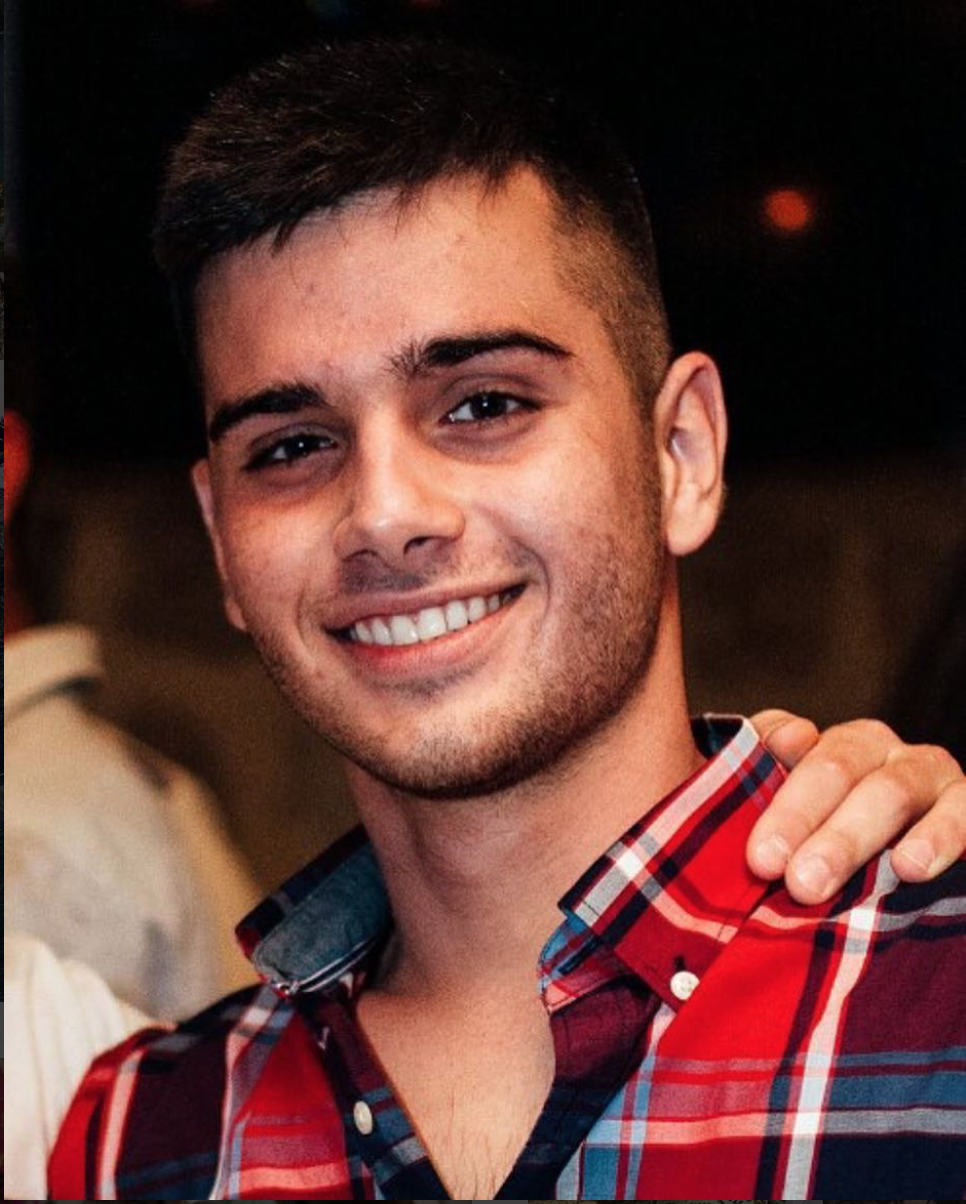
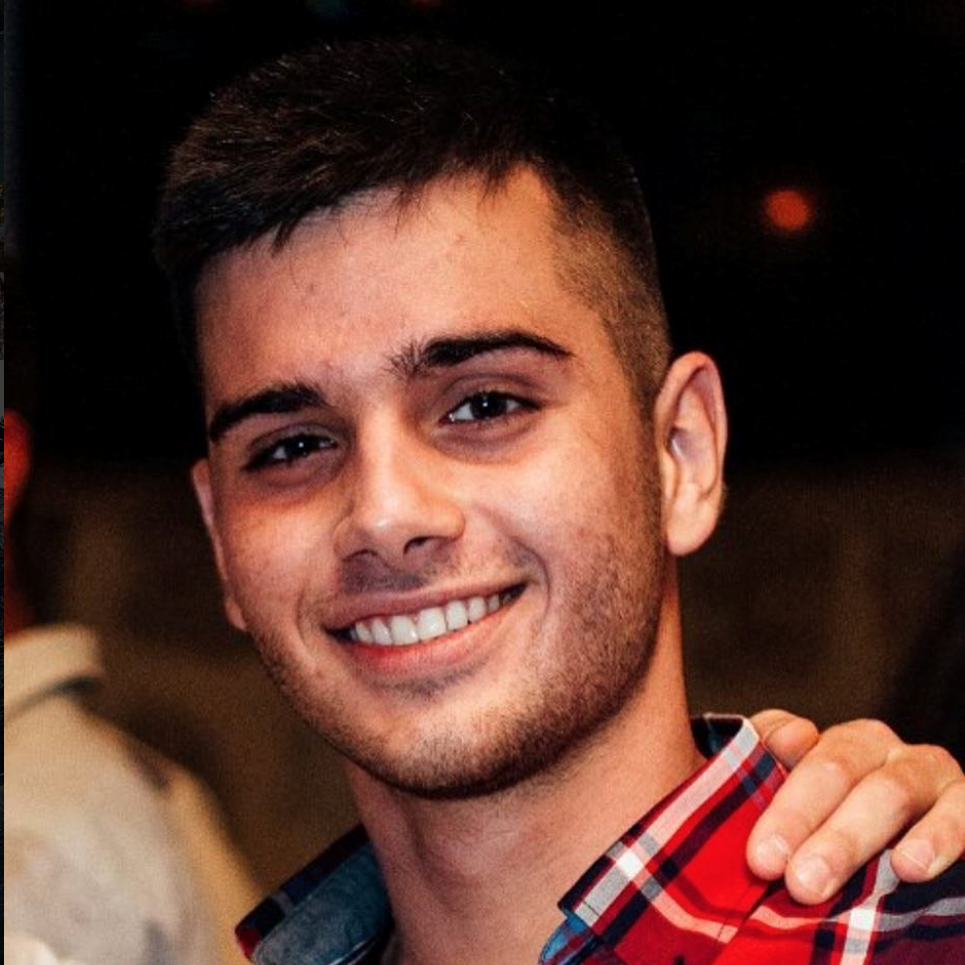
Izmene

diff --git a/radionica-vanillica.html b/radionica-vanillica.html
@@ -16,12 +16,6 @@
     <script src="https://maxcdn.bootstrapcdn.com/bootstrap/3.3.7/js/bootstrap.min.js" integrity="sha384-Tc5IQib027qvyjSMfHjOMaLkfuWVxZxUPnCJA7l2mCWNIpG9mGCD8wGNIcPD7Txa"
         crossorigin="anonymous">
 
-
-
-
-
-
-
         </script>
 
     <!-- CSS -->
@@ -87,11 +81,13 @@
             <div class="row">
                 <div class="col-md-12">
                     <p class="workshop-info-text">
-                        Vanilica je kurs koji obuhvata onaj najslađi deo JavaScripta - njegovu osnovu i početke. Zašto?
+                        Vanillica je kurs koji obuhvata onaj najslađi deo JavaScripta - njegovu osnovu i početke. Zašto?
                         Zašto Vanilla JavaScript-a? Zato što: “Morate znati azbuku da biste mogli da pišete”. Zašto
                         uopšte JavaScript? Neko je nekad rekao: “Svaki put kad napišem nešto u JS-u budem iznenađen
                         činjenicom da radi”. Šta? Šta treba da znam? Trebalo bi da poznajete osnove HTML-a i CSS-a ali
-                        ne brinite, i to ćemo preći na ovom kursu. Ali slobodno bacite pogled na OVO ili OVO u
+                        ne brinite, i to ćemo preći na ovom kursu. Ali slobodno bacite pogled na <a href=https://www.udemy.com/html-and-css-for-beginners-crash-course-learn-fast-easy/
+                            target="_blank" style="color:black"> <b><u>OVO</u></b></a> ili <a href=https://www.udemy.com/build-your-first-website-in-1-week/
+                            target="_blank" style="color:black"> <b><u>OVO</u></b></a> u
                         međuvremenu. Šta treba da imam? Možete nositi svoj laptop i tako uvek imati sve na jednom mestu
                         ili koristiti fakultetski računar. Ako koristite prvu opciju možete da instalirate Sublime ili
                         Brackets ili Visual Studio Code. Pored osnova JSa, studentima će se pružiti prilika da se
@@ -99,7 +95,7 @@
                         raditi na određenim mini projektima na kojima će moći da upotrebe znanje iz prethodno odrađenog
                         dela.
                         <span class="razmak">
-                            <b>Neophodno predznanje:</b> Nisu potrebna predznanja</span>
+                            <b>Neophodno predznanje:</b> Nisu potrebna predznanja.</span>
                         <b>Da li je potrebno poneti svoj laptop:</b> Nije Neophodno.
                         <span>
                             <b>Potreban softver za rad na radionici:</b> Nije ništa potrebno.
@@ -109,7 +105,7 @@
             </div>
             <div class="row predavaci">
                 <div class="col-md-10 predavac col-md-offset-1">
-                    <img src="./img/predavaci/Tamara Naumovic.jpg" style="transform: rotate(270deg)" alt="Tamara">
+                    <img src="./img/predavaci/Tamara Naumovic.jpg" alt="Tamara">
                     <h5>Tamara Naumović</h5>
                     <p>
                         “Veliki sam sladokusac, pogotovo kad su u pitanju ovi sitni kolači koje moja baka najbolje
@@ -119,7 +115,7 @@
                         par radionica u prostorijama fakulteta. Obožava da se bavi JSom(njena prva ljubav), a
                         predavanje je trenutno njena profesija. Takođe, bila je izglasana u top pet
                         asistenata/saradnika na fakultetu.
-                    </br>
+                        <br>
                         <a href="www.linkedin.com/in/tamara-naumovic" class="link" style="display: inline; padding-right:10px">
                             <i class="fa fa-linkedin fa-2x" aria-hidden="true"></i>
                         </a>

diff --git a/index.html b/index.html
@@ -82,7 +82,7 @@
                                 </a>
                             </li> -->
                         <li>
-                           <a href="" target="_blank" class="target">Uskoro Prijave
+                           <a href="" target="_blank" class="target"> Prijavi se!
                             </a>
                         </li>
 
@@ -100,22 +100,25 @@
                     <span class="dot-red title-dot">.</span>
                 </h1>
                 <p class="text-center custom-p">
-                    „Studenti studentima“ je tradicionalni projekat udruženja studenata informatike FONIS čiji je
+                    „Studenti studentima“ je tradicionalni projekat Udruženja studenata informatike FONIS čiji je
                     glavni cilj prenošenje znanja iz IT oblasti.
-                    Pravo učešća na projektu imaju svi studenti Univerziteta u Beogradu, bez obzira na fakultet i
+                    Pravo učešća na projektu imaju svi studenti beogradskih fakulteta, bez obzira na fakultet i
                     usmerenje.
-                    Ove godine će se radionice održavati tokom vikenda, 20.-21. oktobar. Kao i do sada, mesto
+                    Ove godine će se radionice održavati tokom vikenda, 20-21. oktobar. Kao i do sada, mesto
                     održavanja je Fakultet organizacionih nauka, a učešće na svim radionicama je besplatno.
                     Projekat „Studenti studentima” je čuven po svojoj jedinstvenoj strukturi i neposrednoj atmosferi u
                     kojoj se studenti „učenici” podstiču da bez ustručavanja komuniciraju sa svojim predavačima, što
                     ubrzava proces usvajanja gradiva iz željenih oblasti.
                     Mnogi studenti na taj način nalaze inspiraciju da rade na ličnom napretku, prošire spektar znanja i
                     pronađu polje svog interesovanja. Sve što je potrebno je dobro raspoloženje i želja za
-                    usavršavanjem. Broj mesta je ograničen, zato požurite! S2S, Where learning begins!
+                    usavršavanjem. Broj mesta je ograničen, zato požurite! 
+                    <br>
+                    <br>
+                    <b>S2S, Where learning begins!</b>
                 </p>
                 <div class="call-to-action">
                     <div class="button button-cta-orange">
-                        Uskoro Prijave
+                        Prijavi se!
                     </div>
                     <span class="arrow arrow-right">
                         <img src="./img/right-arrow.png" alt="arrow">
@@ -338,7 +341,7 @@
                     <img src="./img/team-members/Dusan_Radivojevic.jpg">
                     <div class="caption">
                         <h3>Koordinator projekta</h3>
-                        <h4 class="text-center"> Dusan Radivojević </h4>
+                        <h4 class="text-center"> Dušan Radivojević </h4>
                         <p>
                             <a href="mailto:r.dusan97@gmail.com" target="_top">
                                 <i class="fa fa-envelope-o fa-2x" aria-hidden="true"></i>
@@ -396,7 +399,7 @@
                 <div class="thumbnail">
                     <img src="./img/team-members/Vuk_Stefanovic.jpg">
                     <div class="caption">
-                        <h3>Koordinator tima za ljdske resurse</h3>
+                        <h3>Koordinator tima za ljudske resurse</h3>
                         <h4 class="text-center"> Vuk Stefanović</h4>
                         <p>
                             <a href="mailto:stefanovicvuk97@gmail.com target=" _top">

diff --git a/radionica-sajt.html b/radionica-sajt.html
@@ -92,18 +92,18 @@
 
 
                         <span class="razmak">
-                            <b>Neophodno predznanje:</b> Nije neophodno </span>
+                            <b>Neophodno predznanje:</b> Nije neophodno. </span>
                         <b>Da li je potrebno poneti svoj laptop:</b> Da.
                         <span>
-                            <b>Potreban softver za rad na radionici:</b> Softver nije potreban </span>
+                            <b>Potreban softver za rad na radionici:</b> Softver nije potreban. </span>
 
                     </p>
                 </div>
             </div>
             <div class="row predavaci">
                 <div class="col-md-10 predavac col-md-offset-1 img-size">
-                    <img src="./img/predavaci/Danijel Faziljevic.png" style="width:300px !important; height:100% !important" alt="Danijel">
-                    <h5>Danijel Fazlijević</h5>
+                    <img src="./img/predavaci/Danijel Faziljevic.png"  alt="Daniel">
+                    <h5>Daniel Fazlijević</h5>
                     <p>
                         Od malena me je zanimalo kako stvari rade, zašto baš to rade, ali i kako bih ja to mogao da
                         uradim.
@@ -116,6 +116,9 @@
 
                         <a href="https://www.linkedin.com/in/daniel-fazlijevic-18212315a/" class="link">
                             <i class="fa fa-linkedin fa-2x" aria-hidden="true"></i>
+                        </a>
+                        <a href="https://danielfazlijevic.me/" class="link" style="display: inline; padding-top:10px">
+                            <i class="fa fa-book fa-2x" style="color: white; padding-top:10px" aria-hidden="true"></i>
                         </a>
                     </p>
                 </div>

diff --git a/radionica-java1.html b/radionica-java1.html
@@ -85,11 +85,10 @@
                         Pored toga, studenti će imati priliku da kroz praktične primere sagledaju povezanost baza sa
                         programskim jezikom Java,
                         manipulaciju podacima kao i zadavanje direktnih upita za pretraživanje istih.
-                        <span class="razmak"><b>Neophodno predznanje:</b> Basic level Java-e </span>
+                        <span class="razmak"><b>Neophodno predznanje:</b> Basic level Java-e. </span>
                         <b>Da li je potrebno poneti svoj laptop:</b> Da.
                         <span>
-                            <b>Potreban softver za rad na radionici:</b> Eclipse ili Netbeans</span>
-                        <span> <i>Biće održane dve radionice u formi predavanja u trajanju od po tri sata.</i> </span>
+                            <b>Potreban softver za rad na radionici:</b> Eclipse ili Netbeans.</span>
                     </p>
                 </div>
             </div>
@@ -103,7 +102,7 @@
                         Programiranje sam naučio sam, eksperimentišući.
                         Zatim sam počeo da držim privatne časove gde sam stekao mnogo više iskustva i shvatio neke
                         stvari još bolje.
-                        Vrlo sam uporan i kreativan prilikom rešavanja programskih problema.
+                        Vrlo sam uporan i kreativan prilikom rešavanja programerskih problema.
                         <a href="https://www.linkedin.com/in/%C4%91or%C4%91e-trm%C4%8Di%C4%87-862358151/" class="link">
                             <i class="fa fa-linkedin fa-2x" aria-hidden="true"></i>
                         </a>

diff --git a/radionica-python.html b/radionica-python.html
@@ -86,7 +86,7 @@
 
 
                         <span class="razmak">
-                            <b>Neophodno predznanje:</b> Nije neophodno </span>
+                            <b>Neophodno predznanje:</b> Nije neophodno. </span>
                         <b>Da li je potrebno poneti svoj laptop:</b> Da.
                         <span>
                             <b>Potreban softver za rad na radionici:</b>
@@ -102,14 +102,14 @@
             </div>
             <div class="row predavaci">
                 <div class="col-md-10 predavac col-md-offset-1 img-size">
-                    <img src="./img/predavaci/Stefan Krstović - Upravni Odborfonis.jpg" style="width:300px !important; height: 100% !important; " alt="Stefan">
+                    <img src="./img/predavaci/Stefan Krstović - Upravni Odborfonis.jpg"  alt="Stefan">
                     <h5>Stefan Krstović</h5>
                     <p>
                         Stefan Krstović je student treće godine Fakulteta organizacionih nauka u Beogradu. Samostalno
                         je učio Python, a do sada je uspešno održao dve radionice u okviru organizacija. Otvoren je,
                         pristupačan i spreman da odgovori na svako vaše pitanje i prenese vam znanje na najbolji mogući
                         način.
-                        </br>
+                        <br>
                         <a href="https://www.linkedin.com/in/stefankrstovic/" class="link" style="display: inline; padding-right:10px">
                             <i class="fa fa-linkedin fa-2x" aria-hidden="true"></i>
                         </a>

diff --git a/radionica-google.html b/radionica-google.html
@@ -93,21 +93,12 @@
                         <span>
                             <b>Potreban softver za rad na radionici: </b>Nije potreban.
                         </span>
-                        <span>
-                            <b>Dodatne napomene:</b>
-                            <br> Bilo bi sjajno ukoliko bi, između ostalog, na predavanje došli oni koji imaju realnu
-                            potrebu
-                            za optimizacijom nekog njihovog sajta (ili od brata/sestre/oca/prijatelja). Na taj način
-                            bismo
-                            mogli da na drugoj ili trećoj radionici prođemo kroz konkretne primere i to podelimo sa
-                            ostatkom
-                            publike. </span>
                     </p>
                 </div>
             </div>
             <div class="row predavaci">
                 <div class="col-md-10 predavac col-md-offset-1 img-size">
-                    <img src="./img/predavaci/jovanbojovic.JPG" style="width:400px !important; height:100% !important" alt="Jovan">
+                    <img src="./img/predavaci/jovanbojovic.JPG"  alt="Jovan">
                     <h5>Jovan Bojović</h5>
                     <p>
                         U svet digitalnog marketinga ušao sam 2010. godine kada je bio i moj prvi dodir sa

diff --git a/radionica-cypher.html b/radionica-cypher.html
@@ -85,11 +85,11 @@
 
 
                         <span class="razmak">
-                            <b>Neophodno predznanje:</b> Nije neophodno </span>
+                            <b>Neophodno predznanje:</b> Nije neophodno. </span>
                         <b>Da li je potrebno poneti svoj laptop:</b> Da.
                         <span>
                             <b>Potreban softver za rad na radionici:</b>
-                            <a href="https://conda.io/docs/user-guide/install/index.html" target="_blank" style="color: yellow">Neo4J</a>
+                            <a href="https://conda.io/docs/user-guide/install/index.html" target="_blank" style="color: yellow">Neo4J.</a>
                         </span>
 
                     </p>
@@ -97,7 +97,7 @@
             </div>
             <div class="row predavaci">
                 <div class="col-md-10 predavac col-md-offset-1 img-size">
-                    <img src="./img/predavaci/Slavko Pejak.png" style="width:300px !important;height:100% !important" alt="Slavko">
+                    <img src="./img/predavaci/Slavko Pejak.png" alt="Slavko">
                     <h5>Slavko Pejak</h5>
                     <p>
                         Moje ime je Slavko, student sam četvrte godine Fakulteta organizacionih nauka, na smeru

diff --git a/radionica-java3.html b/radionica-java3.html
@@ -83,7 +83,7 @@
                 <div class="col-md-12">
                     <p class="workshop-info-text">
                         U okviru ove radionice studenti će se upoznati sa samim osnovama programskog jezika Java,
-                        počevši od sintakse, pa do kompleksnijh pojmova i koncepata. Ideja je da do kraja ove radionice
+                        počevši od sintakse, pa do kompleksnijih pojmova i koncepata. Ideja je da do kraja ove radionice
                         studenti budu u stanju da stečeno znanje primene i kreiraju funkcionalan softver. Ova radionica
                         je idealna za sve one koji imaju interesovanje za Javu, sa ili bez iskustva u ovom programskom
                         jeziku i programiranju uopšte.
@@ -93,7 +93,7 @@
                         <b>Da li je potrebno poneti svoj laptop: </b> Ne.
                         <span>
                             <b>Potreban softver za rad na radionici: </b>Java Platoform (JDK) i IDE (Eclipse) - softver
-                            postoji na računarima na fakultetu
+                            postoji na računarima na fakultetu.
                         </span>
                     </p>
                 </div>

diff --git a/radionica-java2.html b/radionica-java2.html
@@ -101,14 +101,14 @@
                         pokušati da napravimo korisnu aplikaciju, koja lepo izgleda, do kraja radionice.
                         <span class="razmak">
                             <b>Neophodno predznanje:</b> Srednje poznavanje Jave.</span>
-                        <b>Da li je potrebno poneti svoj laptop:</b> Da
+                        <b>Da li je potrebno poneti svoj laptop:</b> Da.
                         <span>
                             <b>Potreban softver za rad na radionici:</b>
                             <a href="https://www.jetbrains.com/idea/download/#section=windows" target="_blank"><u>IntelliJ
                                     IDEA Community </u></a>
                             <a href="https://www.java.com/en/download/ " target="_blank"><u>Java 8</u></a>
                             <a href="https://confluence.atlassian.com/doc/setting-the-java_home-variable-in-windows-8895.html "
-                                target="_blank"><u>Postaviti Java_Home</u></a>
+                                target="_blank"><u>Postaviti Java_Home.</u></a>
                         </span>
                     </p>
                 </div>

diff --git a/radionica-design.html b/radionica-design.html
@@ -94,11 +94,11 @@
                         Ovde ćete početi od osnova dizajna i saznati kako se uz pomoć Adobe Illustrator-a baš oni i
                         prave.
                         <span class="razmak">
-                            <b>Neophodno predznanje:</b> Nisu neophodna, poželjno je da budete kreativni I uporni.
+                            <b>Neophodno predznanje:</b> Nisu neophodna, poželjno je da budete kreativni i uporni.
                         </span>
-                        <b> Da li je potrebno poneti svoj laptop:</b> Da
+                        <b> Da li je potrebno poneti svoj laptop:</b> Da.
                         <span>
-                            <b>Potreban softver za rad na radionici: </b>Adobe Illustrator CC
+                            <b>Potreban softver za rad na radionici: </b>Adobe Illustrator CC.
                         </span>
                     </p>
                 </div>

diff --git a/radionica-c.html b/radionica-c.html
@@ -85,10 +85,10 @@
                         U početku studenti će naučiti kako da se snađu u okviru programskog paketa Visual Studio,
                         zatim će se upoznati sa tipovima promenljivih, funkcijama, nizovima i pokazivačima.
                         Cilj cele radionice je lakši ulazak u materiju Programiranja 1, koji predstavlja veliki problem
-                        za većinu brucoša.
+                        za većinu brucoša. Zbog velikog interesovanja za ovu radionicu, ista će se održati u dve sale.
 
                         <span class="razmak">
-                            <b>Neophodno predznanje:</b> Nije neophodno predznanje
+                            <b>Neophodno predznanje:</b> Nije neophodno predznanje.
                         </span>
                         <b> Da li je potrebno poneti svoj laptop:</b> Nije potrebno.
                         <span>

diff --git a/css/radionica.css b/css/radionica.css
@@ -70,8 +70,8 @@ span > a > u {
 }
 
 .img-size img {
-  width: 220px !important;
-  height: 170px !important;
+  width: 300px !important;
+  height: 100% !important;
 }
 
 @media (max-width: 490px) {
@@ -97,21 +97,21 @@ span > a > u {
 @media (max-width: 546px) {
   .img-control img{
     width: 260px;
-    height: 180px;
+    height: 100%;
   }
 }
 
 @media (max-width: 277px) {
   .img-control img{
     width: 200px;
-    height: 120px;
+    height: 100%;
   }
 }
 
 @media (max-width: 277px) {
   .img-control img{
     width: 160px;
-    height: 80px;
+    height: 100%;
   }
 }
 
